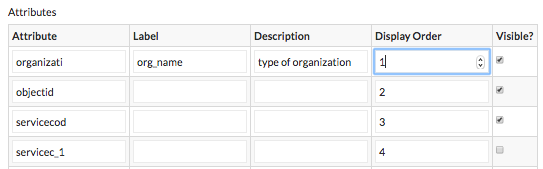
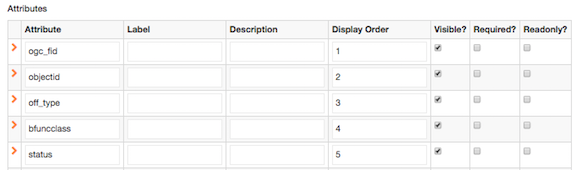
constraints changes (#4)

diff --git a/docs/metadata/index.rst b/docs/metadata/index.rst
@@ -78,6 +78,10 @@ Edit or add metadata
 
   .. figure:: img/data-quality.png
 
+**Group** - From the drop-down menu, select which group has permission to access this data.
+
+  .. figure:: img/group.png
+
 Select the checkboxes for the options you’d like to turn on/off.
 
   .. figure:: img/checkboxes.png
@@ -93,20 +97,6 @@ Ensure the box is checked if:
   * The vector has a time attribute that you’d like to enable for temporal viewing
   * The raster has associated elevation information
 
-**Category** - Data is divided into categories, which assists in the grouping and search of available geographic datasets. These categories correspond to those on the Exchange homepage.
-
-  .. figure:: img/category.png
-
-**Attributes (layers only)** - All of the attributes for a layer will be listed. Edits can be made to the Label, Description, and Display Order fields.
-
-  .. figure:: img/attributes.png
-
-  Click your mouse in the field you’d like to edit, and make your changes. You can select the up or down buttons in the Display Order field to change the order of where the attribute will display in the attribute list.
-
-**Note:** If you change the order of one attribute, make sure you have changed the corresponding attribute to prevent duplicates.
-
-  Select the checkbox beneath the Visible column to turn off/on the visibility of an attribute. This will affect the attribute visibility on the map.
-
 **Link to (documents only)** - Select a map or layer in the drop down list. This will associate the document to that resource.
 
   .. figure:: img/link-to.png
@@ -114,6 +104,10 @@ Ensure the box is checked if:
 **Regex (layers only)** - Select the regular expression for the time and/or elevation of raster data.
 
   .. figure:: img/regex.png
+  
+**Service** - To link the layer to an existing remote service, select it from the drop-down menu.
+
+  .. figure:: img/service.png
 
 **Site URL and Featured Map URL (maps only)** -
 
@@ -128,5 +122,42 @@ Ensure the box is checked if:
 **Note:** You are not able to edit the Owner, Point of Contact or Metadata Author.
 
   .. figure:: img/poc.png
+
+  
+**Category** - Data is divided into categories, which assists in the grouping and search of available geographic datasets. These categories correspond to those on the Exchange homepage.
+
+  .. figure:: img/category.png
+
+**Attributes (layers only)** - All of the attributes for a layer will be listed. Edits can be made to the Label, Description, and Display Order fields.
+
+  .. figure:: img/attributes.png
+
+Click your mouse in the field you’d like to edit, and make your changes. You can select the up or down buttons in the Display Order field to change the order of where the attribute will display in the attribute list.
+
+**Note:** If you change the order of one attribute, make sure you have changed the corresponding attribute to prevent duplicates.
+
+Select the checkbox beneath the Visible column to turn off/on the visibility of an attribute. This will affect the attribute visibility on the map.
+
+Select the checkbox beneath the Required column to require users to input a value for that attribute.
+
+Select the checkbox beneath the Readonly column to ensure no one else can modify the attribute or its values.
+
+**Constraints** - Attribute values can be edited to establish minimums and maximums for the data. This helps prevent data inconsistency, as well as ensures the values fall within the expected ranges. 
+
+For our example, we are using the surface attribute to clarify whether a bike path is paved or unpaved. We want to ensure the attribute value added is limited to those two options. This provides continuity, and reduces ambiguity among answers (*e.g.* gravel, cement, dirt).
+
+Click the orange carrot next to the field to implement constraints.
+
+  .. figure:: img/constraints.png
+  
+Select the Control Type drop-down menu, and choose the option which best represents the way you’d like to represent the options.
+
+  .. figure:: img/control-type.png
+  
+Select the blue Options :guilabel:`( + )`  button to add the values and labels for the data. In the example, we use **1** to represent a paved path, and **2** to represent an unpaved path.
+
+When a user edits that value from the map, the are only presented with two values, and cannot add one that is unexpected. Note: Please see the Edit attributes section in Editing and Version Management for more information.
+
+  .. figure:: img/map-edit.png
 
 4. When you’re finished, click the :guilabel:`Update` button to save your changes.
